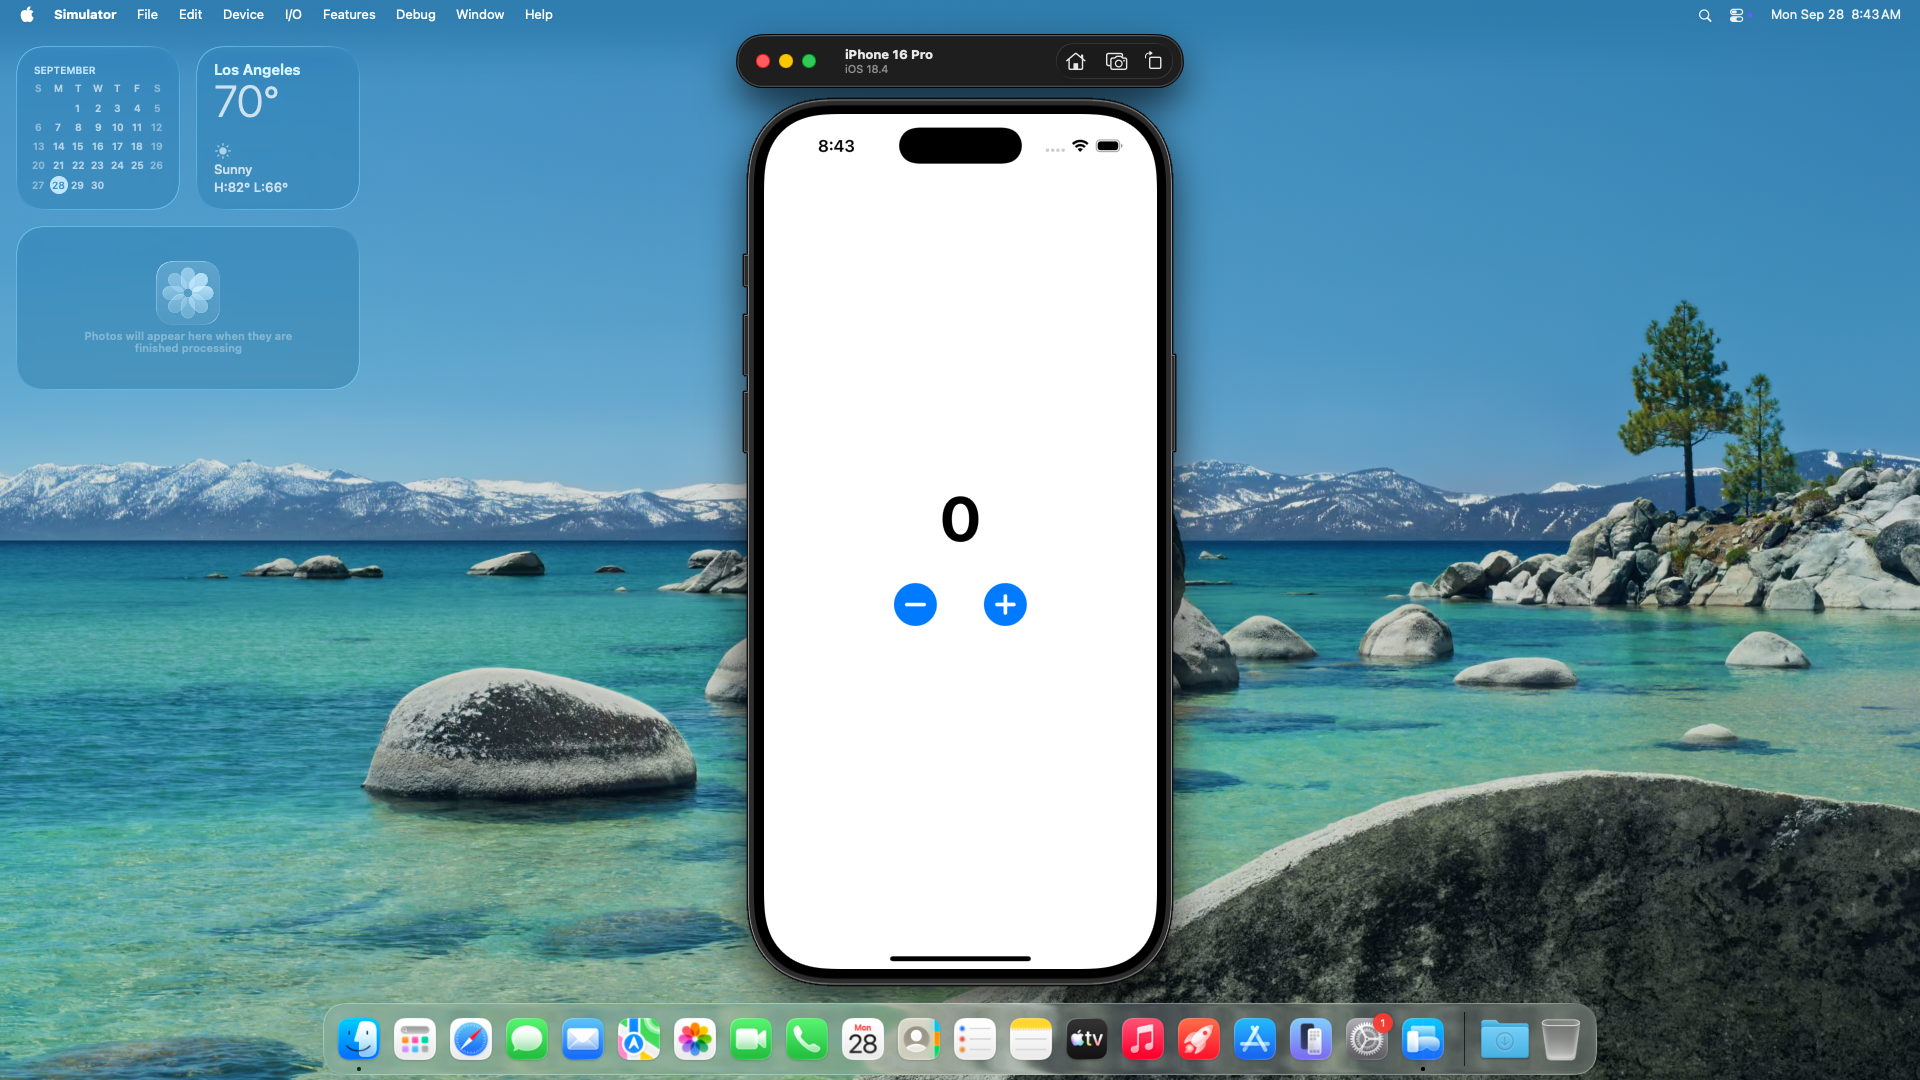
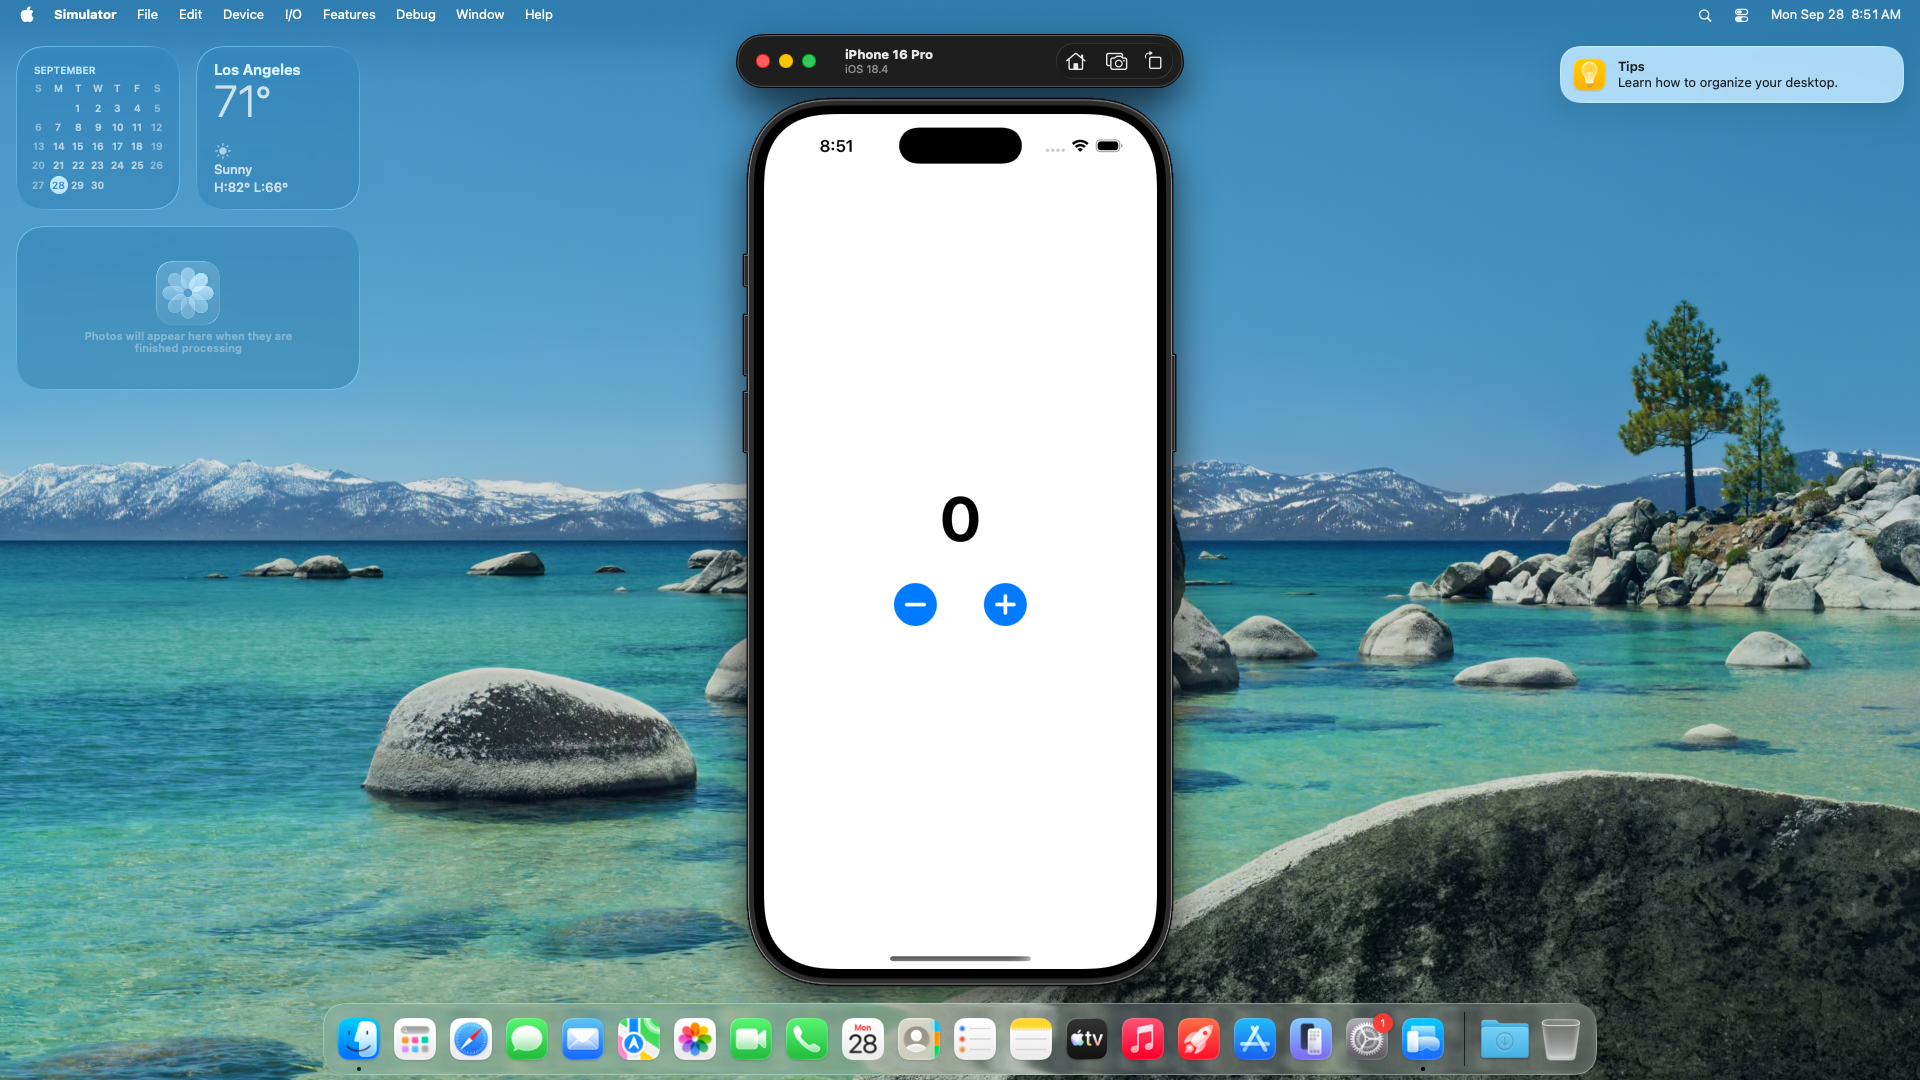
Add device-only screenshot alongside full-desktop screenshot
Captures both a full macOS desktop screenshot (mac.screenshot.takeFullScreen(),
proving the app runs inside the sandbox) and a clean device-only screenshot
(xcrun simctl io screenshot, just the app's own framebuffer, no window chrome)
after launch. Ran the guide live again to verify and to generate real
example-screenshot.png / example-simulator-screenshot.png for the README.

Changed region(s): [[0.8125, 0.0306, 1.0, 0.1222], [0.4688, 0.8861, 0.5312, 0.9167], [0.125, 0.0611, 0.1562, 0.1222]]

diff --git a/typescript/computer-use/ios-xcode-simulator/index.ts b/typescript/computer-use/ios-xcode-simulator/index.ts
@@ -385,14 +385,26 @@ async function run() {
     console.log('Launching app on simulator...')
     await runRemote(mac, `xcrun simctl launch ${simulator.udid} ${BUNDLE_ID}`)
 
-    // Give the UI a moment to settle, then capture a screenshot. xcodebuild test (below)
-    // proves the app's *logic* is correct; this screenshot is what actually confirms the
-    // SwiftUI view rendered as intended, for manual review.
+    // Give the UI a moment to settle, then capture screenshots. xcodebuild test (below)
+    // proves the app's *logic* is correct; these screenshots are what actually confirm the
+    // SwiftUI view rendered as intended, for manual review. Two are taken:
     await new Promise((resolve) => setTimeout(resolve, 2000))
-    console.log('Capturing screenshot...')
+
+    // 1. The full macOS desktop (via the SDK), showing the Simulator window and all -- proves
+    // the app is really running inside this sandbox, not just that some pixels exist somewhere.
+    console.log('Capturing full-screen screenshot...')
     const screenshot = await mac.screenshot.takeFullScreen()
     fs.writeFileSync('screenshot.png', screenshot)
     console.log('✓ Screenshot saved to screenshot.png')
+
+    // 2. The simulated device's own framebuffer only (via `simctl io screenshot`), with no
+    // window chrome or desktop around it -- a clean, pixel-perfect look at just the app itself.
+    console.log('Capturing simulator-only screenshot...')
+    const remoteDeviceScreenshotPath = `${REMOTE_ROOT}/simulator-screenshot.png`
+    await runRemote(mac, `xcrun simctl io ${simulator.udid} screenshot ${remoteDeviceScreenshotPath}`)
+    const deviceScreenshot = await mac.download(remoteDeviceScreenshotPath)
+    fs.writeFileSync('simulator-screenshot.png', deviceScreenshot)
+    console.log('✓ Simulator screenshot saved to simulator-screenshot.png')
 
     // Terminate and fully uninstall the app before testing: xcodebuild test does its own
     // install/launch of the app as the test host, and leaving the manually-installed/launched copy

diff --git a/typescript/computer-use/ios-xcode-simulator/README.md b/typescript/computer-use/ios-xcode-simulator/README.md
@@ -10,7 +10,7 @@ This example demonstrates building, running, and testing a real iOS app end-to-e
 - **Real Xcode project, built from scratch:** [XcodeGen](https://github.com/yonaskolb/XcodeGen) turns a project spec into an `.xcodeproj` at runtime — nothing is checked into this repo
 - **Runs on the actual iOS Simulator:** Installed and launched with `xcrun simctl`, not just compiled
 - **Automated test run with parsed results:** `xcodebuild test` output is parsed into a clean pass/fail summary, with a non-zero exit code on failure
-- **Screenshot for manual verification:** A full-screen screenshot of the sandbox is downloaded after launch, since the test suite proves the app's logic but not that its UI actually renders correctly
+- **Screenshots for manual verification:** After launch, both a full-screen screenshot of the sandbox (proving the app is really running in this session) and a clean device-only screenshot of just the simulator's framebuffer are downloaded, since the test suite proves the app's logic but not that its UI actually renders correctly
 - **Optional full session recording:** Set `RECORD_SESSION=true` to record the whole run and download it as `recording.mp4`
 
 ## Prerequisites
@@ -65,7 +65,7 @@ This example also assumes the Mac Mini image already has a full Xcode install (n
 5. An available iOS Simulator device is selected and booted with `xcrun simctl`, and the Simulator app is opened so its window is visible (`simctl boot` alone runs headlessly)
 6. `xcodebuild` builds the app against that simulator
 7. The built app is installed and launched on the simulator with `xcrun simctl install`/`launch`
-8. A full-screen screenshot is captured and downloaded for manual visual verification
+8. Two screenshots are captured and downloaded for manual visual verification: a full-screen shot of the sandbox (via the SDK's `mac.screenshot.takeFullScreen()`) and a device-only shot of just the simulator's framebuffer (via `xcrun simctl io screenshot`)
 9. The app is terminated and uninstalled so it doesn't conflict with the test run below, then `xcodebuild test` runs the XCTest suite against the same simulator, writing a `.xcresult` bundle
 10. The `.xcresult` bundle is zipped and downloaded, and the test output is parsed into a pass/fail summary printed to the console
 11. If recording was started, it's stopped, downloaded, and saved as `recording.mp4`
@@ -95,12 +95,11 @@ Set `RECORD_SESSION=true` in your `.env` file to record the entire sandbox sessi
 
 ## Example Output
 
-This is the actual console output from a real run against a use.computer Mac Mini reservation, with `RECORD_SESSION=true` (raw `xcodebuild`/`brew`/`simctl` output in between is trimmed for readability — the script itself doesn't suppress it):
+This is the actual console output from a real run against a use.computer Mac Mini reservation (raw `xcodebuild`/`brew`/`simctl` output in between is trimmed for readability — the script itself doesn't suppress it):
 
 ```
 Creating a macOS sandbox...
-Sandbox ready. Watch it live at: https://api.use.computer/vnc?sandbox=sb-17bc8d4cf0edc626528de8e54d729085&token=***
-Recording started: rec-c87703a616b2655a
+Sandbox ready. Watch it live at: https://api.use.computer/vnc?sandbox=sb-879c09b30d9b08ceed7dee02498adc2b&token=***
 Xcode 26.4.1
 Build version 17E202
 Uploading project files...
@@ -114,8 +113,10 @@ Building app...
 ** BUILD SUCCEEDED **
 Installing app on simulator...
 Launching app on simulator...
-Capturing screenshot...
+Capturing full-screen screenshot...
 ✓ Screenshot saved to screenshot.png
+Capturing simulator-only screenshot...
+✓ Simulator screenshot saved to simulator-screenshot.png
 Running tests...
 ** TEST SUCCEEDED **
 Archiving test results...
@@ -128,22 +129,26 @@ Test Results
 [PASS] CounterAppTests.testIncrementThenDecrement (0.001s)
 ------------
 SUCCEEDED: executed 3, 0 failures (0 unexpected), 0.003s
-Stopping recording...
-✓ Recording saved to recording.mp4
 Closing sandbox...
 ```
 
-Open `screenshot.png` to see the app running on the simulator, and unzip `TestResults.xcresult.zip` (or open it directly in Xcode) to inspect the full test report. If `RECORD_SESSION=true`, `recording.mp4` captures the whole sandbox session from boot to teardown.
+Open `screenshot.png`/`simulator-screenshot.png` to see the app running on the simulator, and unzip `TestResults.xcresult.zip` (or open it directly in Xcode) to inspect the full test report. If `RECORD_SESSION=true`, `recording.mp4` captures the whole sandbox session from boot to teardown.
 
-### Screenshot
+### Screenshots
 
-`example-screenshot.png` below is the actual `screenshot.png` this run produced — the CounterApp running in the iPhone 16 Pro simulator, counter at `0` with the +/- buttons, inside the full macOS desktop (Simulator window and all):
+Two screenshots are captured after launch — `example-screenshot.png` and `example-simulator-screenshot.png` below are the actual files a run produced.
 
-![CounterApp running in the iOS Simulator](example-screenshot.png)
+The full-screen shot (`mac.screenshot.takeFullScreen()`) shows the whole macOS desktop, Simulator window and all — proof the app is really running inside this sandbox, not just that some pixels exist somewhere:
+
+![CounterApp running in the iOS Simulator, full desktop](example-screenshot.png)
+
+The device-only shot (`xcrun simctl io screenshot`) is just the simulator's own framebuffer at the device's native resolution — no window chrome or desktop, a clean look at just the app itself:
+
+<img src="example-simulator-screenshot.png" alt="CounterApp running in the iOS Simulator, device only" width="300">
 
 ### Recording
 
-[`example-recording.mp4`](example-recording.mp4) is the actual `recording.mp4` from that same run, capturing the entire sandbox session — Xcode project generation, the simulator booting and opening, the build, the app launching, and the test run — useful for a full visual audit beyond the single screenshot above. (These `example-*` files are checked into the repo purely to illustrate output; the script itself always writes to `screenshot.png`/`recording.mp4`, which are gitignored.)
+[`example-recording.mp4`](example-recording.mp4) is the actual `recording.mp4` from a run with `RECORD_SESSION=true`, capturing the entire sandbox session — Xcode project generation, the simulator booting and opening, the build, the app launching, and the test run — useful for a full visual audit beyond the screenshots above. (These `example-*` files are checked into the repo purely to illustrate output; the script itself always writes to `screenshot.png`/`simulator-screenshot.png`/`recording.mp4`, which are gitignored.)
 
 ## License
 
